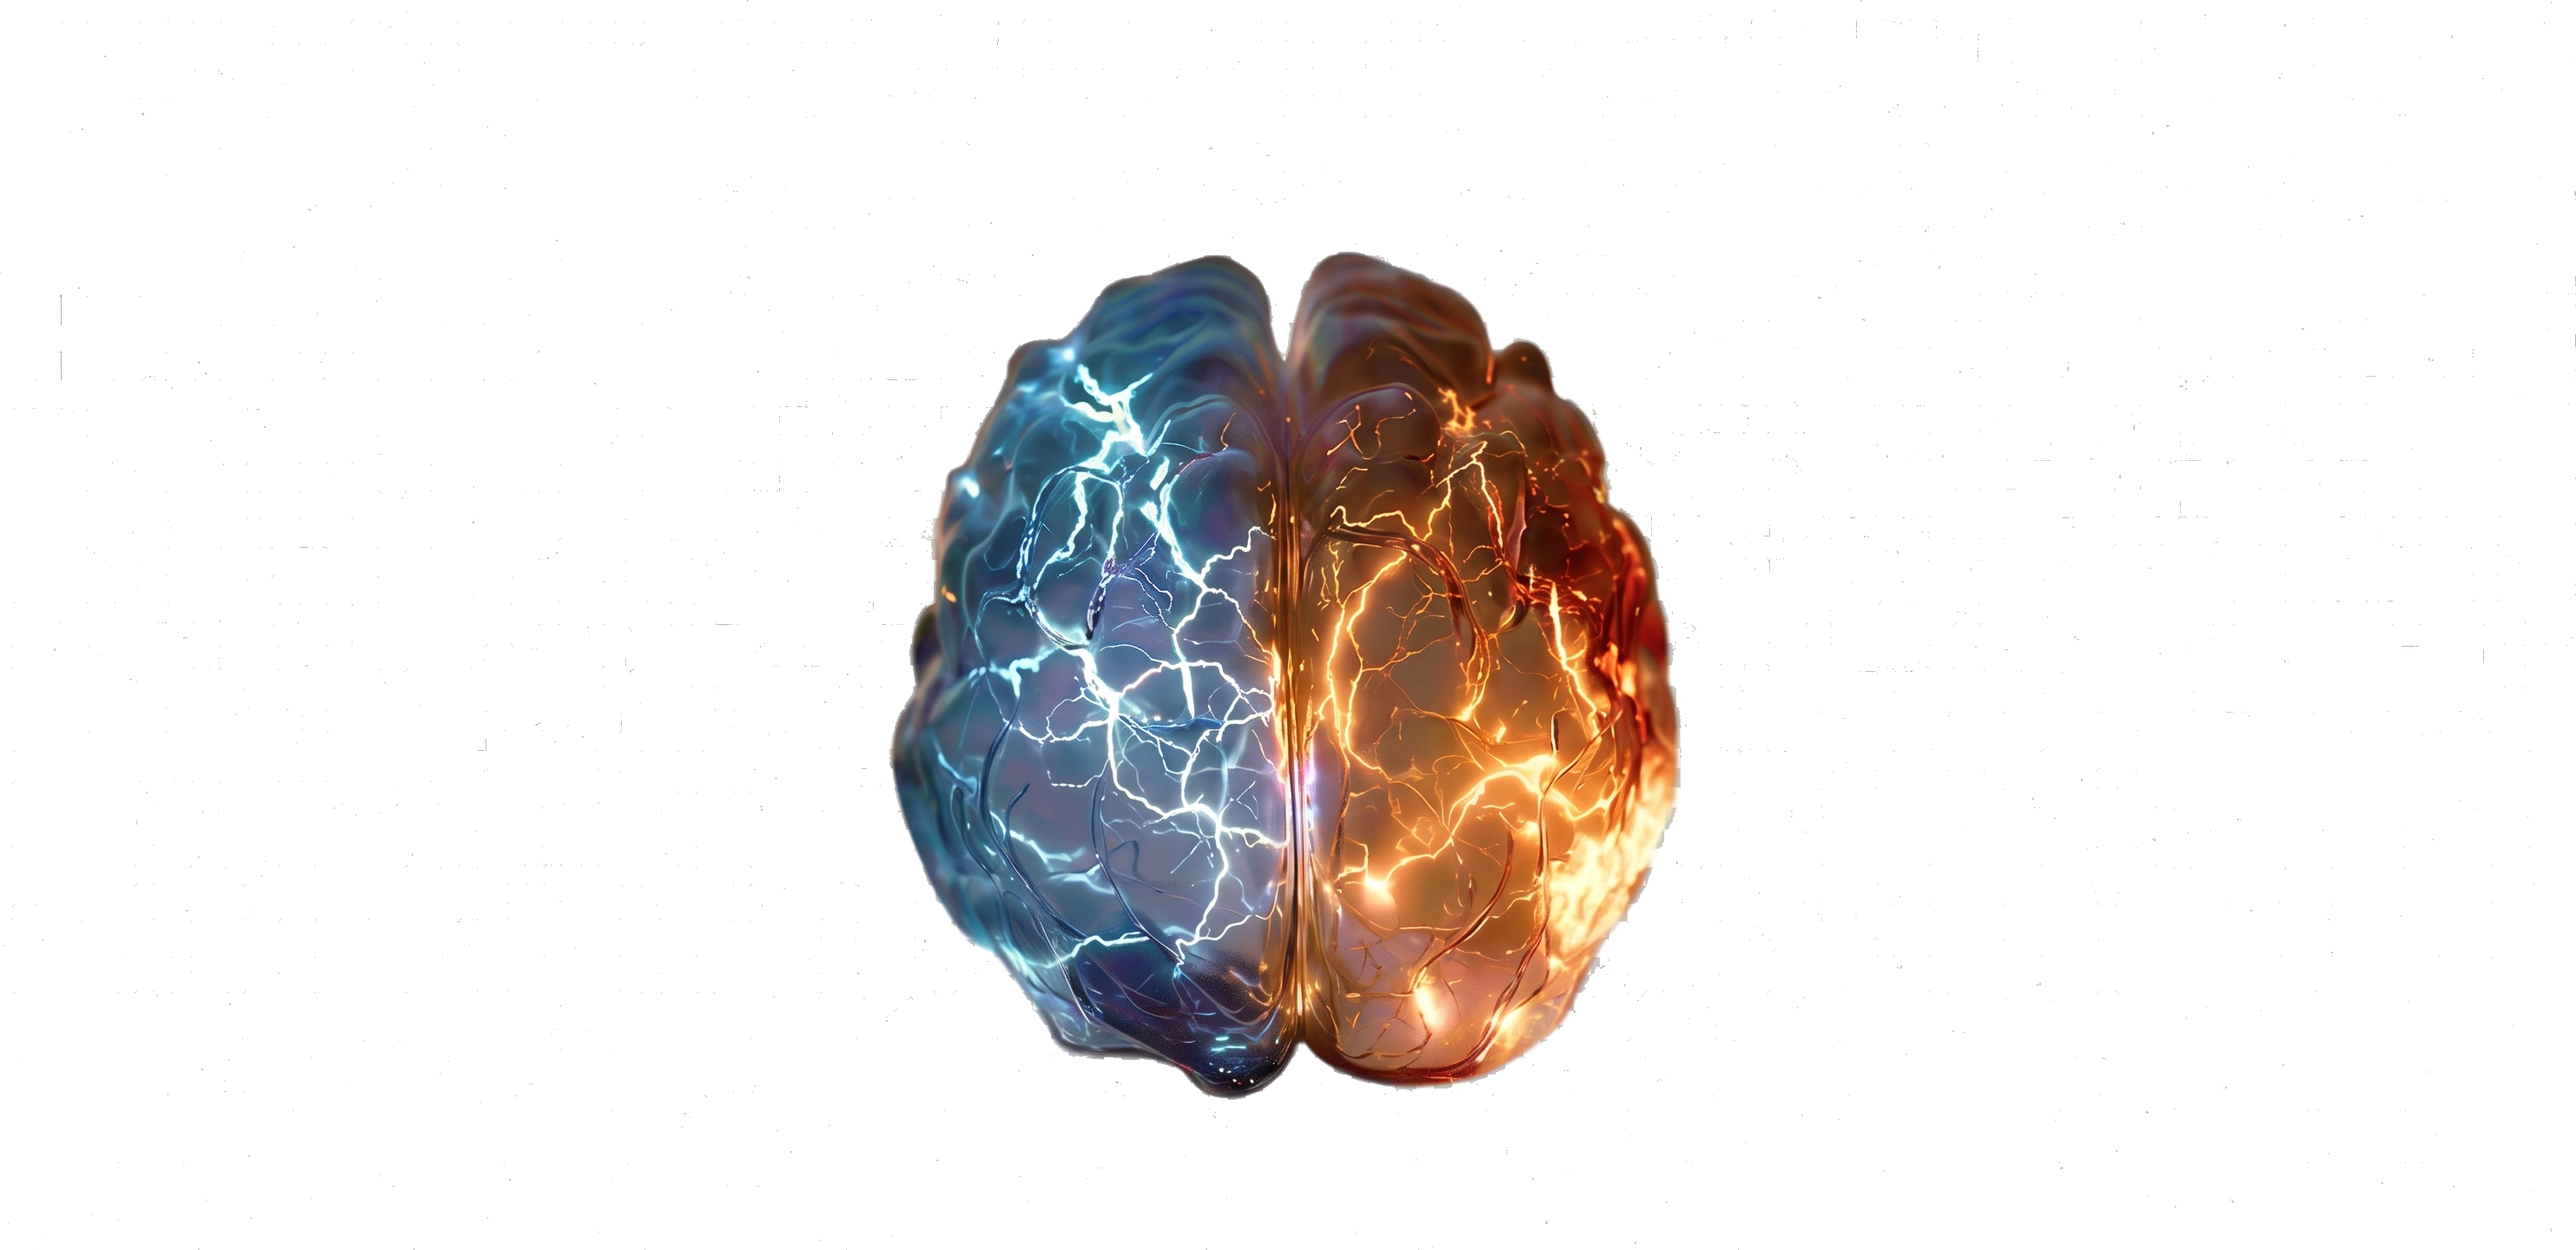
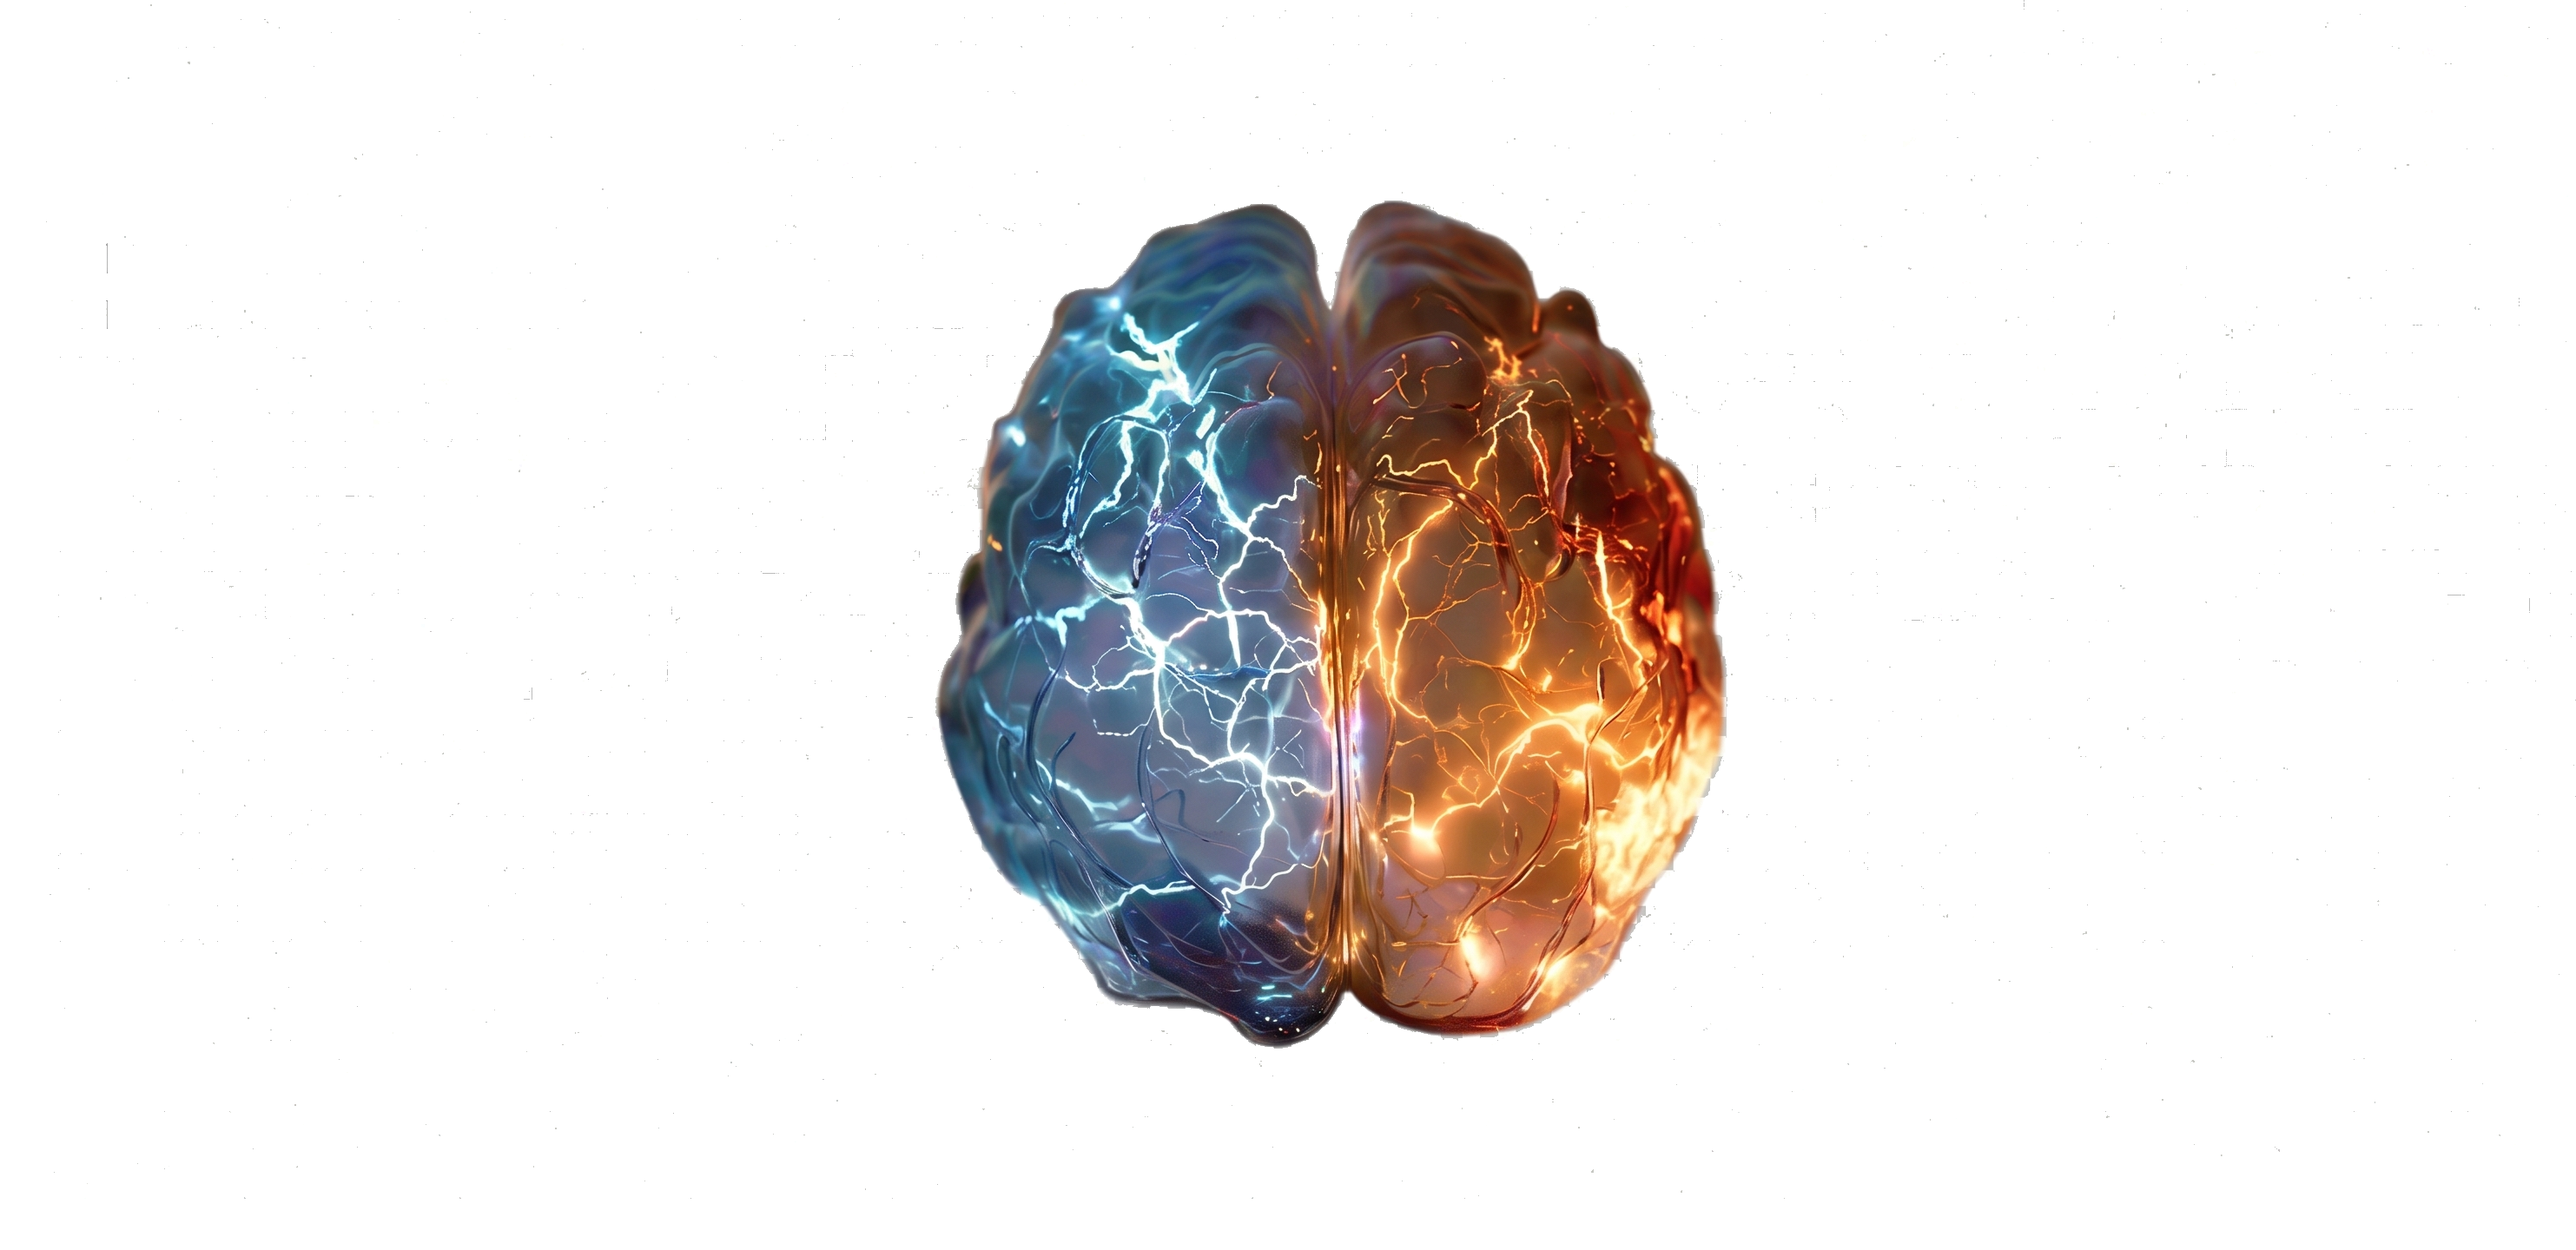
S1/S2: use composite refs as bg + overlay animated detail (#8)
Following new direction — instead of building up from separated
layers, use the complete composite reference image as the bg (brain
+ text + plexus all baked in) and just overlay the animated PNG on
top so it covers the static element without displacing surrounding
text.

S2:
- bg.png → composite reference from final versions
  (2880×1400; brain + text cards + plexus)
- brain.png — shifted its canvas content by (+1.8%, -4.1%) so the
  animated brain centroid matches the static brain in the composite
- Dropped the 3 text-overlay PNGs and their CSS — unnecessary now

S1:
- bg.png → new composite 'главная страница фон блок 1.png'
- detail.png → re-uploaded cleaner alpha version
- Added mix-blend-mode: screen on .s1-detail-anim so lingering black
  near-transparent pixels additively brighten lightning instead of
  darkening it

Changed region(s): [[0.3412, 0.1562, 0.6824, 0.875]]

diff --git a/src/app/globals.css b/src/app/globals.css
@@ -156,10 +156,12 @@ main {
 }
 
 /* ===== S1 hero — lightning detail layer =====
-   Sits on top of the sparks background (bg.png) with a soft breathing loop:
-   horizon lightning gently pulses brightness and drifts a few px so the
+   Detail PNG has a black background (Figma export); mix-blend-mode: screen
+   drops the black and additively layers the lightning/sparks on top of the
+   composite bg. Breathing loop pulses brightness and drifts a few px so the
    frozen-frame PNG reads as a live energy field. */
 .s1-detail-anim {
+  mix-blend-mode: screen;
   animation: s1DetailBreathe 6s ease-in-out infinite;
   will-change: transform, filter;
 }

diff --git a/src/components/ProblemSection.tsx b/src/components/ProblemSection.tsx
@@ -2,7 +2,7 @@
 import Image from "next/image";
 import { useTranslation } from '@/components/LanguageProvider';
 import SeoText from '@/components/SeoText';
-import { bgDesktop, bgMobile } from '@/lib/imagePaths';
+import { bgMobile } from '@/lib/imagePaths';
 
 export default function ProblemSection() {
   const { lang } = useTranslation();
